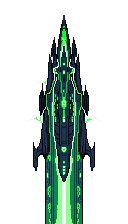
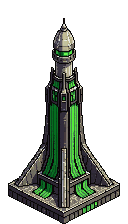
fix(cosmique): tours posées (fin de l'effet flottant) + guildes & caravanes retravaillées
Retours in-engine de Raphaël (band 7 Noosphère) :
- Effet FLOTTANT supprimé : retrait de l'oscillation (bob) dans
  blitCosmicTower → base plantée, statique (halo de bande gardé).
- GUILDES (band 7/8/9) : « pas de sol, juste le haut » (flèche fine
  flottante) → régénérées avec une BASE LARGE posée (usine-tour ancrée +
  emblème engrenage-marteaux).
- CARAVANES (band 7/8/9) : ressemblaient à « une fusée en vol » →
  régénérées en STATION spatiale posée (base large + tour de contrôle +
  hangars / plateformes d'amarrage, plus de vaisseau qui décolle).

6 sprites PixelLab 128×224 re-générés + normalisés (base ancrée en bas).
Recette (ids + prompts v3) à jour dans scripts/fetchProps.mjs. Build OK.

diff --git a/src/game/map/cityEngineSprites.js b/src/game/map/cityEngineSprites.js
@@ -220,9 +220,8 @@ function blitCosmicTower(ctx, ox, oy, sw, sh, key, now, band, cp) {
   const im = propImg[key]; if (!im || !(im.naturalWidth > 0)) return false;
   const H = (typeof window !== 'undefined' && window.__cosmicTowerH) || 1.72;
   const BASE = (typeof window !== 'undefined' && window.__cosmicTowerBase) || 0.95;
-  const bob = Math.sin(now / 1150 + band) * 0.012;
   const drawH = sh * H, drawW = drawH * (im.naturalWidth / im.naturalHeight);
-  const cx = ox + sw * 0.5, baseY = oy + sh * (BASE + bob);
+  const cx = ox + sw * 0.5, baseY = oy + sh * BASE; // base PLANTÉE (pas de lévitation → pas d'effet flottant)
   const prev = ctx.imageSmoothingEnabled; ctx.imageSmoothingEnabled = false;
   ctx.drawImage(im, cx - drawW / 2, baseY - drawH, drawW, drawH);
   ctx.imageSmoothingEnabled = prev;
